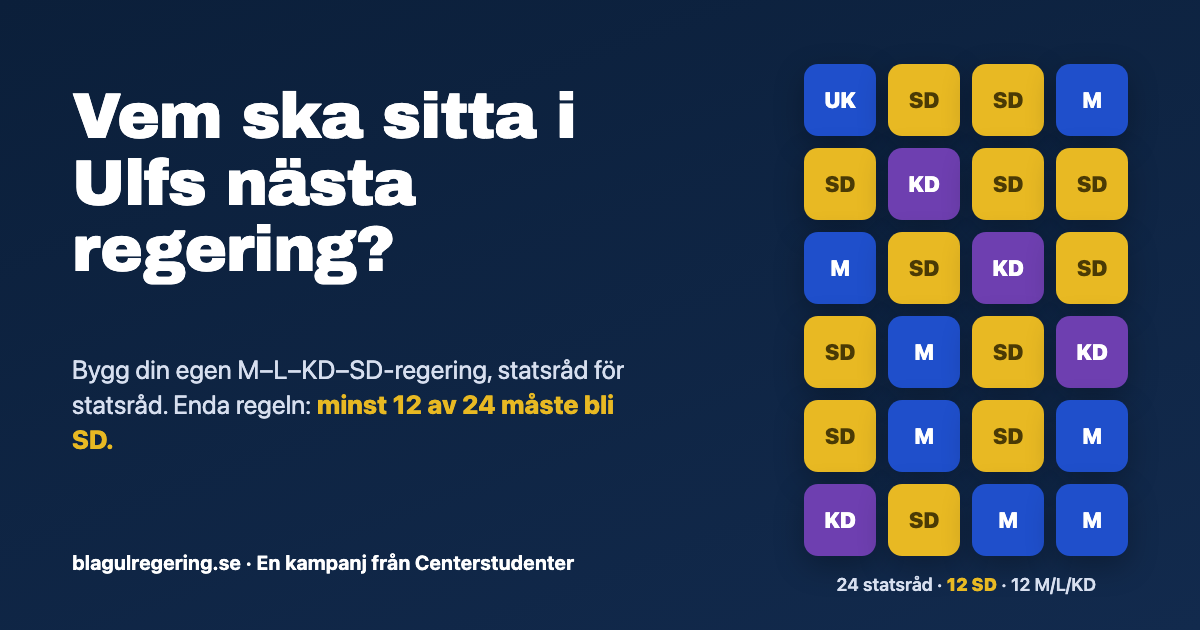
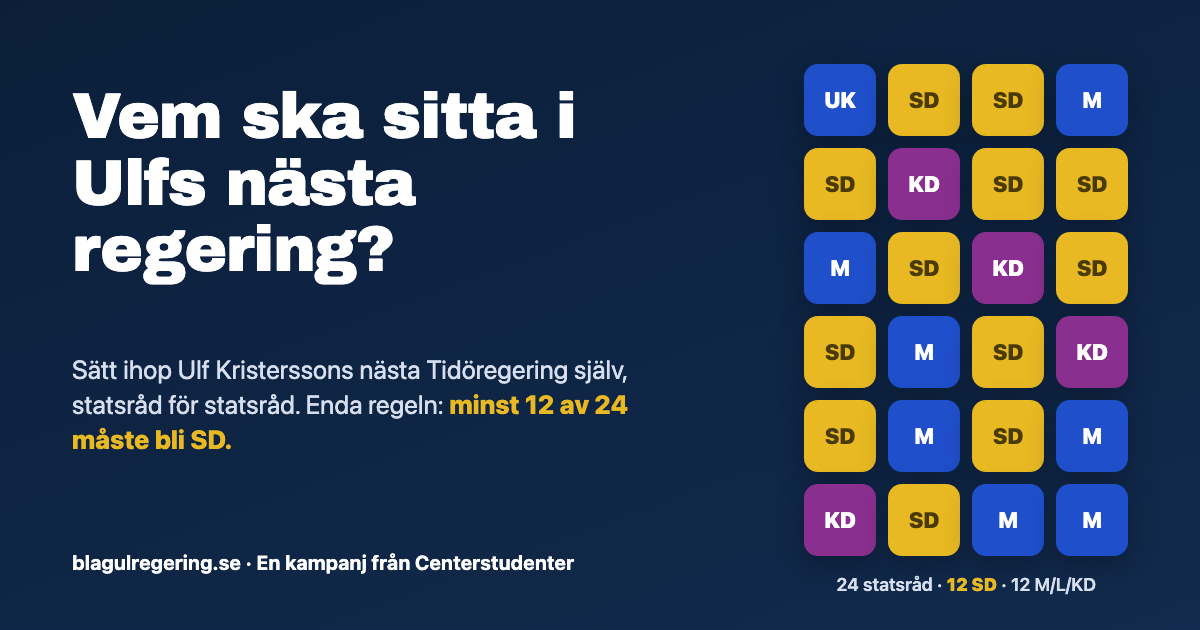
Uppdatera delningsbilden: KD-färg och ingress i linje med sajten
Claude-Session: https://claude.ai/code/session_01CMTLcogfLHs2g4KY2Jjur7

diff --git a/assets-src/og-image.html b/assets-src/og-image.html
@@ -16,13 +16,13 @@
   .grid{position:absolute;right:72px;top:64px;display:grid;grid-template-columns:repeat(4,72px);grid-auto-rows:72px;gap:12px}
   .seat{width:72px;height:72px;border-radius:14px;display:flex;align-items:center;justify-content:center;font-weight:900;font-size:22px;color:#fff;box-shadow:0 10px 30px rgba(0,0,0,.28)}
   .sd{background:#e8b923;color:#4a3a05}
-  .m{background:#1F4FCB}.kd{background:#6E3FB0}.l{background:#12A594}
+  .m{background:#1F4FCB}.kd{background:#8a2f8f}.l{background:#12A594}
   .caption{position:absolute;right:72px;top:574px;width:324px;text-align:center;font-size:18px;color:#d7dfef;font-weight:600}
   .caption b{color:#e8b923}
 </style></head><body>
   <div class="kicker">Blågul regering</div>
   <h1>Vem ska sitta i Ulfs nästa regering?</h1>
-  <p class="lede">Bygg din egen M–L–KD–SD-regering, statsråd för statsråd. Enda regeln: <strong>minst 12 av 24 måste bli SD.</strong></p>
+  <p class="lede">Sätt ihop Ulf Kristerssons nästa Tidöregering själv, statsråd för statsråd. Enda regeln: <strong>minst 12 av 24 måste bli SD.</strong></p>
   <div class="url">blagulregering.se · En kampanj från Centerstudenter</div>
   <div class="grid"><div class="seat m">UK</div><div class="seat sd">SD</div><div class="seat sd">SD</div><div class="seat m">M</div><div class="seat sd">SD</div><div class="seat kd">KD</div><div class="seat sd">SD</div><div class="seat sd">SD</div><div class="seat m">M</div><div class="seat sd">SD</div><div class="seat kd">KD</div><div class="seat sd">SD</div><div class="seat sd">SD</div><div class="seat m">M</div><div class="seat sd">SD</div><div class="seat kd">KD</div><div class="seat sd">SD</div><div class="seat m">M</div><div class="seat sd">SD</div><div class="seat m">M</div><div class="seat kd">KD</div><div class="seat sd">SD</div><div class="seat m">M</div><div class="seat m">M</div></div>
   <div class="caption">24 statsråd · <b>12 SD</b> · 12 M/L/KD</div>
